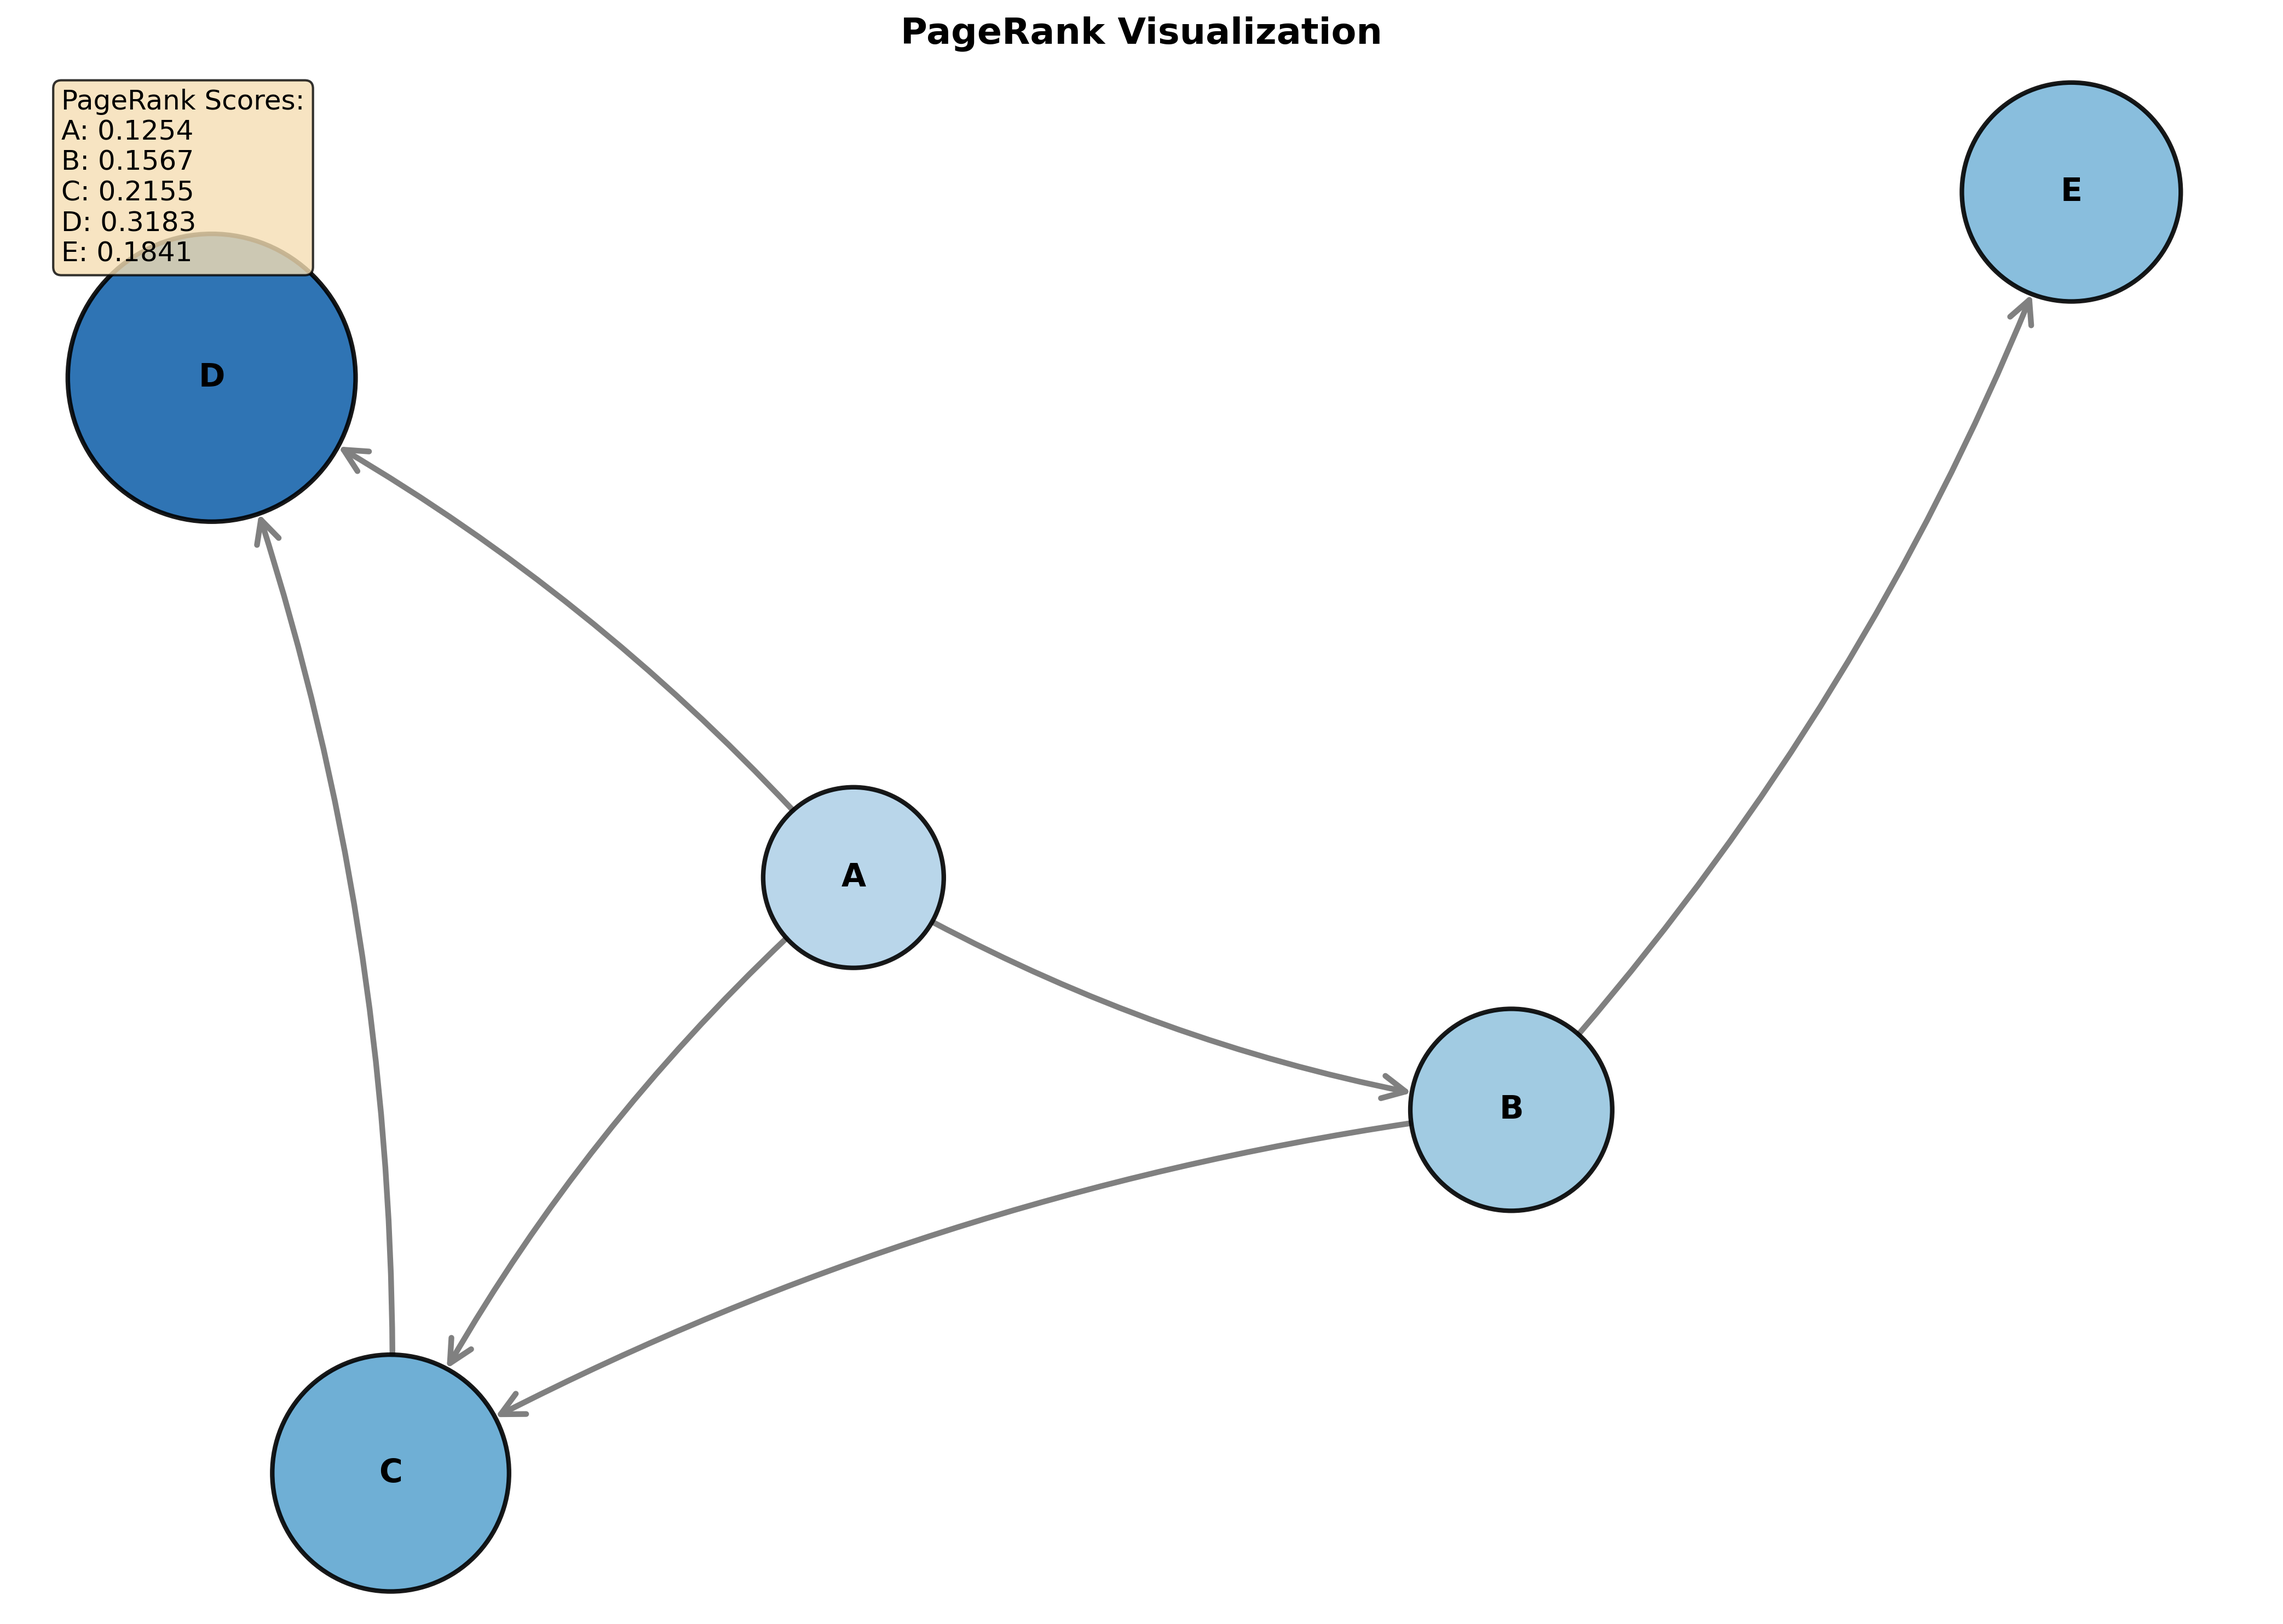
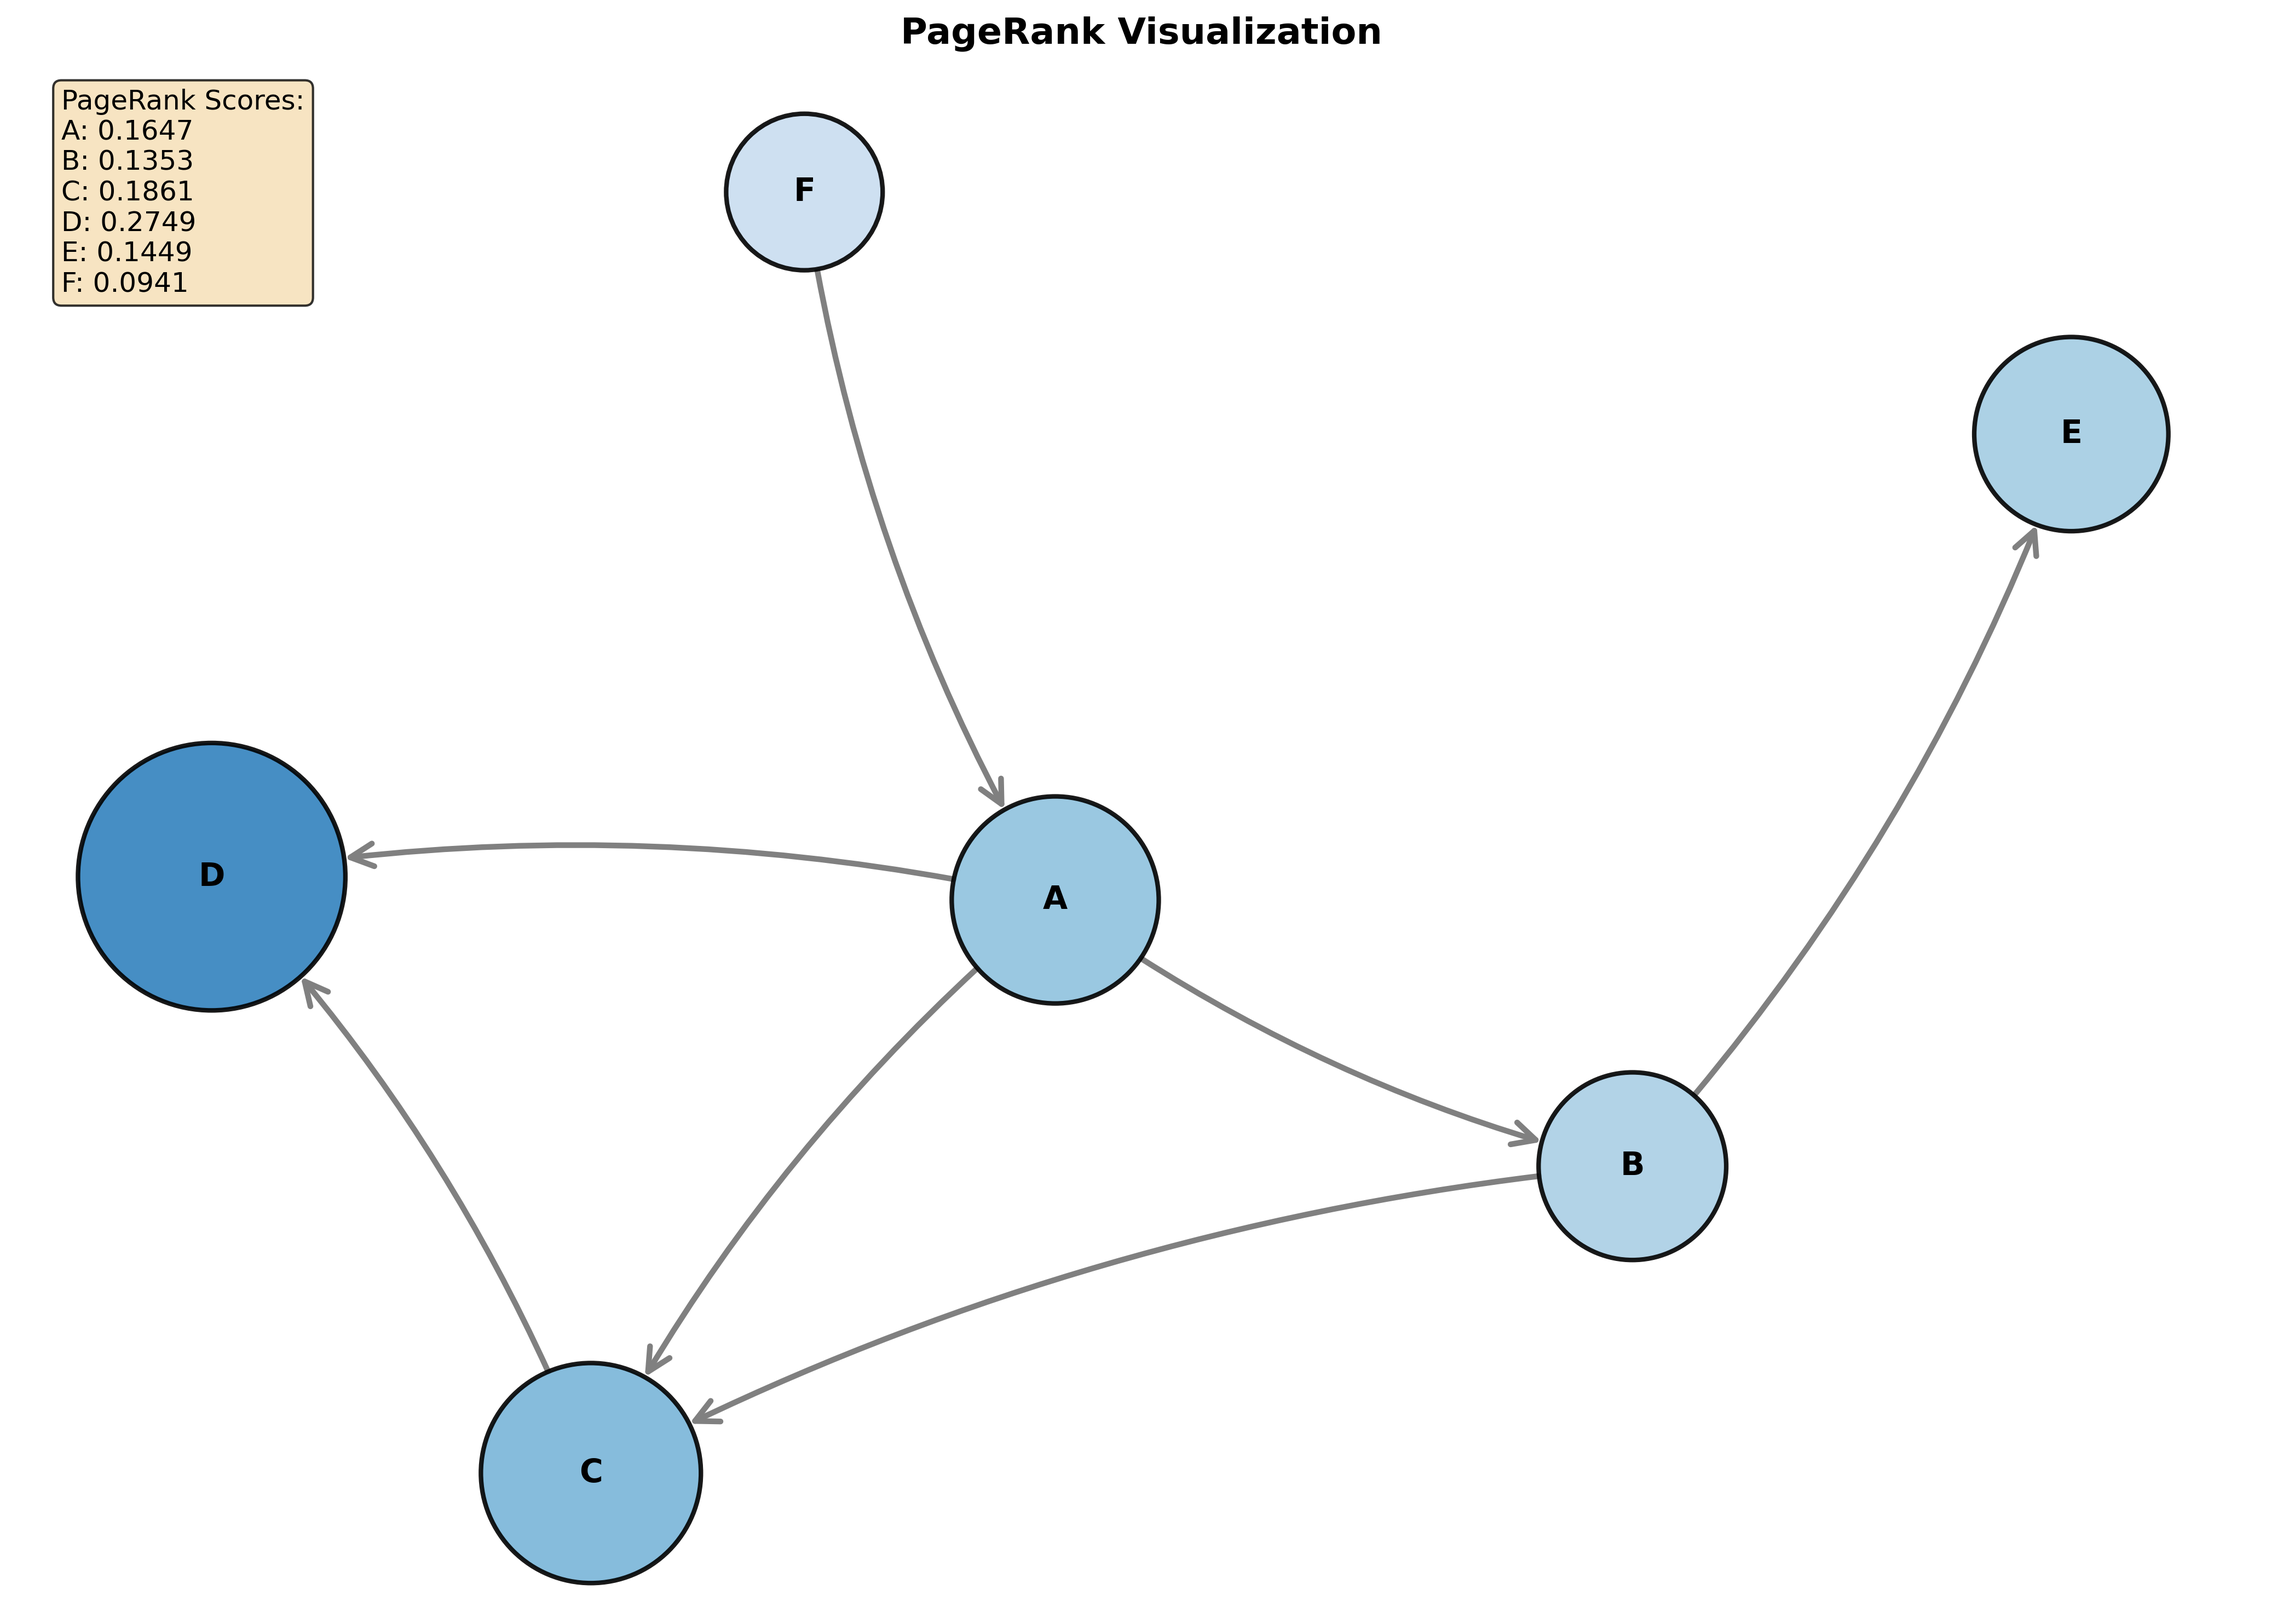
Add python_config for ease of creating graphs as well as to simulate JSON from Web. Add a bunch of visualization edits.

diff --git a/python/pagerank_app.py b/python/pagerank_app.py
@@ -1,0 +1,316 @@
+#!/usr/bin/env python3
+
+import sys
+import json
+import argparse
+from pathlib import Path
+
+sys.path.insert(0, str(Path(__file__).parent / 'pagerank'))
+
+import pagerank_cpp
+
+
+def load_graph_config(config_path):
+    """Load graph configuration from JSON file."""
+    try:
+        with open(config_path, 'r') as f:
+            config = json.load(f)
+        return config
+    except FileNotFoundError:
+        print(f"Error: Config file '{config_path}' not found.")
+        sys.exit(1)
+    except json.JSONDecodeError as e:
+        print(f"Error: Invalid JSON in config file: {e}")
+        sys.exit(1)
+
+
+def build_graph_from_config(config):
+    """Build C++ graph from config dict."""
+    g = pagerank_cpp.Graph()
+    
+    # Add nodes
+    nodes = config.get('nodes', [])
+    if not nodes:
+        print("Error: No nodes defined in config.")
+        sys.exit(1)
+    
+    for node in nodes:
+        g.add_node(str(node))
+    
+    # Add edges
+    edges = config.get('edges', [])
+    if not edges:
+        print("Warning: No edges defined in config.")
+    
+    for edge in edges:
+        if len(edge) != 2:
+            print(f"Warning: Invalid edge format {edge}, skipping.")
+            continue
+        src, dest = edge
+        g.add_edge(str(src), str(dest))
+    
+    return g
+
+
+def compute_pagerank(graph):
+    """Compute PageRank and return result."""
+    result = graph.compute_pagerank()
+    return result
+
+
+def print_results(graph, result):
+    """Print PageRank results to console."""
+    nodes = graph.get_nodes()
+    scores = result.pagerank_scores
+    
+    print("\n" + "=" * 50)
+    print("PageRank Results:")
+    print("=" * 50)
+    for node, score in zip(nodes, scores):
+        print(f"  {node}: {score:.6f}")
+    print("=" * 50)
+    print(f"Converged in {result.num_iterations} iterations")
+    print("=" * 50 + "\n")
+
+def visualize_graph(graph, result, config):
+    """Generate visualization using NetworkX and matplotlib."""
+    try:
+        import networkx as nx
+        import matplotlib.pyplot as plt
+        import matplotlib.cm as cm
+        from matplotlib.patches import FancyArrowPatch, Arc
+        import numpy as np
+    except ImportError:
+        print("Error: NetworkX and matplotlib required for visualization.")
+        print("Install with: pip install networkx matplotlib")
+        return
+    
+    # Get graph data
+    nodes = graph.get_nodes()
+    edges = graph.get_edges()
+    scores = result.pagerank_scores
+    
+    # Get visualization parameters
+    params = config.get('parameters', {})
+    pixel_budget = params.get('pixel_budget', 50000)
+    min_size = params.get('min_node_size', 500)
+    output_path = params.get('output_path', 'output/pagerank_network.png')
+    
+    # Build NetworkX graph
+    G = nx.DiGraph()
+    G.add_nodes_from(nodes)
+    
+    # Separate self-loops from regular edges
+    self_loops = []
+    regular_edges = []
+    for src, dest in edges:
+        if src == dest:
+            self_loops.append((src, dest))
+        else:
+            regular_edges.append((src, dest))
+    
+    # Add only regular edges to NetworkX graph
+    G.add_edges_from(regular_edges)
+    
+    # Calculate node sizes
+    node_sizes = [max(min_size, rank * pixel_budget) for rank in scores]
+    node_size_dict = {node: size for node, size in zip(nodes, node_sizes)}
+    
+    # Assign distinct colors to each node
+    n_nodes = len(nodes)
+    colormap = cm.get_cmap('tab10')
+    if n_nodes > 10:
+        colormap = cm.get_cmap('tab20')
+    
+    node_color_map = {}
+    node_colors = []
+    for i, node in enumerate(nodes):
+        color = colormap(i / max(n_nodes - 1, 1))
+        node_color_map[node] = color
+        node_colors.append(color)
+    
+    # Calculate layout
+    layout_type = params.get('layout', 'spring')
+    
+    if layout_type == 'circular':
+        pos = nx.circular_layout(G, scale=2)
+    elif layout_type == 'kamada_kawai':
+        try:
+            pos = nx.kamada_kawai_layout(G, scale=2)
+        except:
+            pos = nx.spring_layout(G, seed=42, k=3, iterations=50, scale=2)
+    else:  # spring (default)
+        pos = nx.spring_layout(G, seed=42, k=3, iterations=50, scale=2)
+    
+    # Create figure
+    fig, ax = plt.subplots(figsize=(18, 14))
+    
+    # Draw nodes
+    nx.draw_networkx_nodes(G, pos,
+                          node_size=node_sizes,
+                          node_color=node_colors,
+                          alpha=0.9,
+                          edgecolors='black',
+                          linewidths=3,
+                          ax=ax)
+    
+    # Draw regular edges one by one with source node color
+    for src, dest in regular_edges:
+        edge_color = node_color_map[src]
+        temp_node_sizes = [node_size_dict[n] for n in G.nodes()]
+        nx.draw_networkx_edges(G, pos,
+                              edgelist=[(src, dest)],
+                              edge_color=[edge_color],
+                              arrows=True,
+                              arrowstyle='->',
+                              arrowsize=25,
+                              width=3,
+                              alpha=0.85,
+                              node_size=temp_node_sizes,
+                              min_target_margin=20,
+                              connectionstyle='arc3,rad=0.15',
+                              ax=ax)
+    
+    # Draw self-loops manually as small circles above nodes
+    for src, dest in self_loops:
+        x, y = pos[src]
+        edge_color = node_color_map[src]
+
+        # Estimate node radius from node size
+        # node_size is in points^2, convert to approximate data units
+        node_radius = 0.15  # Approximate radius in data coordinates
+        
+        # Loop positioned above the node, starting from edge
+        loop_offset_y = 0.35  # Height above node center
+        loop_center_y = y + node_radius + loop_offset_y  # Start from top edge
+        loop_radius = 0.18
+        
+        # Draw semi-circle arc
+        loop = Arc(
+            xy=(x, loop_center_y),
+            width=loop_radius * 2,
+            height=loop_radius * 2,
+            angle=0,
+            theta1=20,
+            theta2=340,
+            color=edge_color,
+            linewidth=4,
+            alpha=0.85,
+            capstyle='round'
+        )
+        ax.add_patch(loop)
+        
+        # Add arrowhead at end of arc
+        arrow_angle = np.radians(340)
+        arrow_x = x + loop_radius * np.cos(arrow_angle)
+        arrow_y = loop_center_y + loop_radius * np.sin(arrow_angle)
+        
+        # Arrow should point back toward the node edge
+        dx = 0.04
+        dy = -0.05
+        
+        ax.annotate('',
+                   xy=(arrow_x - dx, arrow_y - dy),  # Point toward node
+                   xytext=(arrow_x, arrow_y),
+                   arrowprops=dict(
+                       arrowstyle='->',
+                       color=edge_color,
+                       lw=4,
+                       alpha=0.85,
+                       shrinkA=0,
+                       shrinkB=0
+                   ))    # Draw labels
+
+        nx.draw_networkx_labels(G, pos,
+                               font_size=18,
+                               font_weight='bold',
+                               font_family='sans-serif',
+                               font_color='black',
+                               ax=ax)
+        
+        # Add legend
+        legend_text = "PageRank Scores:\n" + "\n".join(
+            [f"{node}: {score:.4f}" for node, score in zip(nodes, scores)]
+        )
+        ax.text(0.02, 0.98, legend_text,
+                transform=ax.transAxes,
+                verticalalignment='top',
+                fontsize=13,
+                bbox=dict(boxstyle='round', facecolor='wheat', alpha=0.9, pad=0.8),
+                family='monospace')
+        
+        ax.set_title("PageRank Visualization", fontsize=20, fontweight='bold', pad=25)
+        ax.axis('off')
+        ax.set_aspect('equal')
+        
+        # Set axis limits with padding
+        all_x = [pos[node][0] for node in nodes]
+        all_y = [pos[node][1] for node in nodes]
+        margin = 0.5
+        ax.set_xlim(min(all_x) - margin, max(all_x) + margin)
+        ax.set_ylim(min(all_y) - margin, max(all_y) + margin + 0.3)  # Extra for loops
+        
+        plt.tight_layout()
+        
+        # Ensure output directory exists
+        output_file = Path(__file__).parent / output_path
+        output_file.parent.mkdir(parents=True, exist_ok=True)
+        
+        # Save
+        plt.savefig(output_file, dpi=300, bbox_inches='tight', facecolor='white')
+        print(f"Visualization saved to: {output_file}")
+        
+        # Show if requested
+        if params.get('show_plot', False):
+            plt.show()
+        
+        plt.close()
+
+def main():
+    parser = argparse.ArgumentParser(
+        description='PageRank computation and visualization tool'
+    )
+    parser.add_argument('--config', '-c',
+                       default='graph_config.json',
+                       help='Path to graph configuration JSON file (default: graph_config.json)')
+    parser.add_argument('--visualize', '-v',
+                       action='store_true',
+                       help='Generate visualization (requires NetworkX and matplotlib)')
+    parser.add_argument('--no-print',
+                       action='store_true',
+                       help='Suppress console output of results')
+    
+    args = parser.parse_args()
+    
+    # Resolve config path relative to script location
+    config_path = Path(__file__).parent / args.config
+    
+    # Load config
+    print(f"Loading configuration from: {config_path}")
+    config = load_graph_config(config_path)
+    
+    # Build graph
+    print("Building graph...")
+    graph = build_graph_from_config(config)
+    print(f"  Nodes: {graph.num_nodes()}")
+    print(f"  Edges: {len(graph.get_edges())}")
+    
+    # Compute PageRank
+    print("Computing PageRank...")
+    result = compute_pagerank(graph)
+    
+    # Print results
+    if not args.no_print:
+        print_results(graph, result)
+    
+    # Visualize if requested
+    if args.visualize or config.get('parameters', {}).get('visualize', False):
+        print("Generating visualization...")
+        visualize_graph(graph, result, config)
+    
+    print("Done!")
+
+
+if __name__ == "__main__":
+    main()
+

diff --git a/python/examples/test_binding.py b/python/examples/test_binding.py
@@ -18,7 +18,8 @@ def test_pagerank():
     g.add_node("C")
     g.add_node("D")
     g.add_node("E")
-    
+    g.add_node("F")
+
     g.add_edge("B", "C")
     g.add_edge("B", "E")
 
@@ -27,6 +28,8 @@ def test_pagerank():
     g.add_edge("A", "B")
     g.add_edge("A", "C")
     g.add_edge("A", "D")
+
+    g.add_edge("F", "A")
 
     result = g.compute_pagerank()
     scores = result.pagerank_scores
